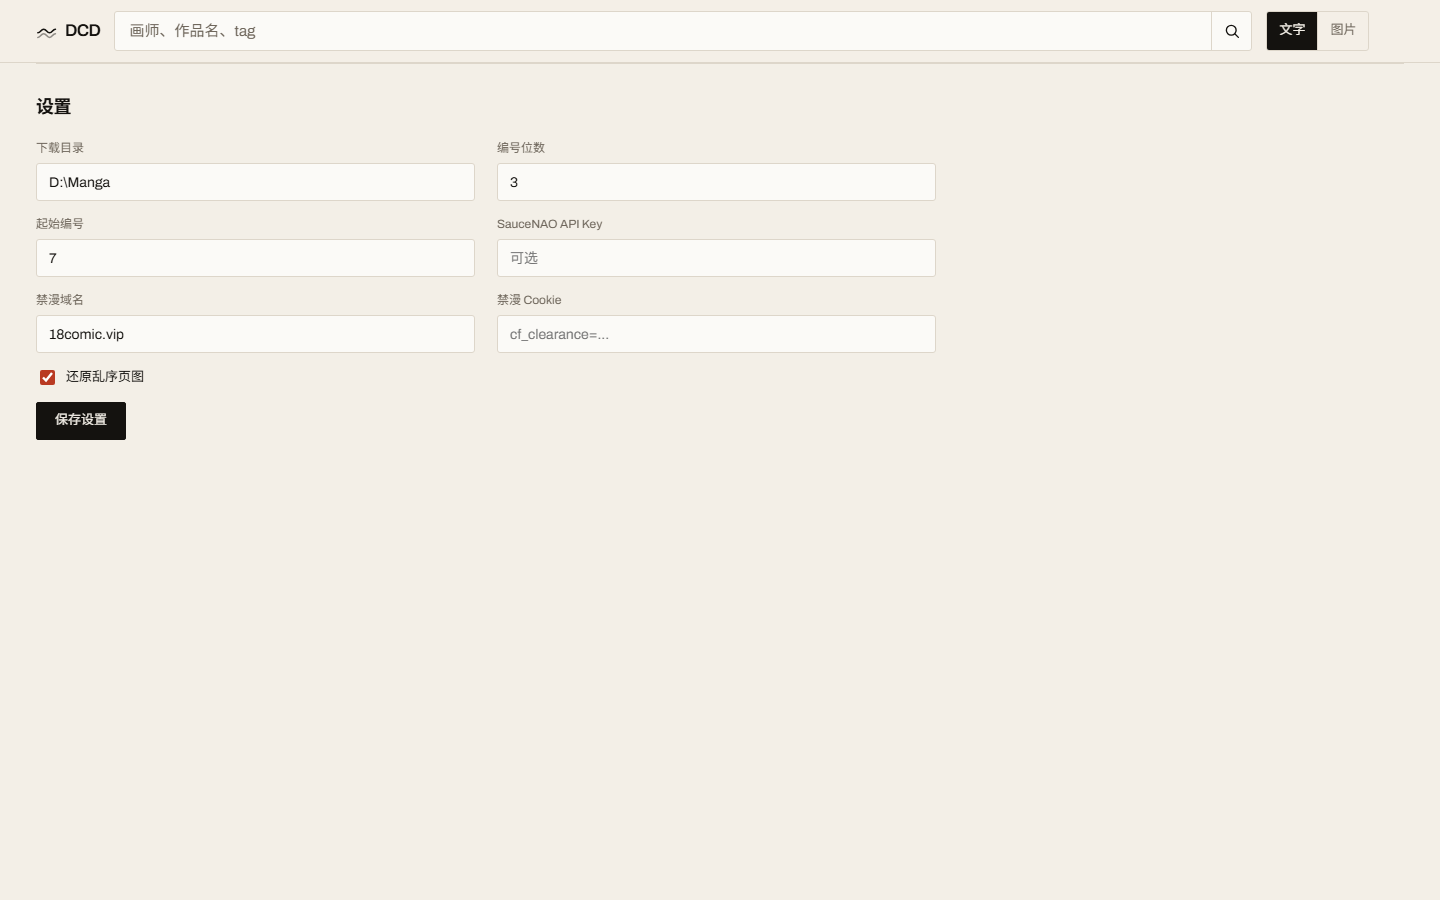
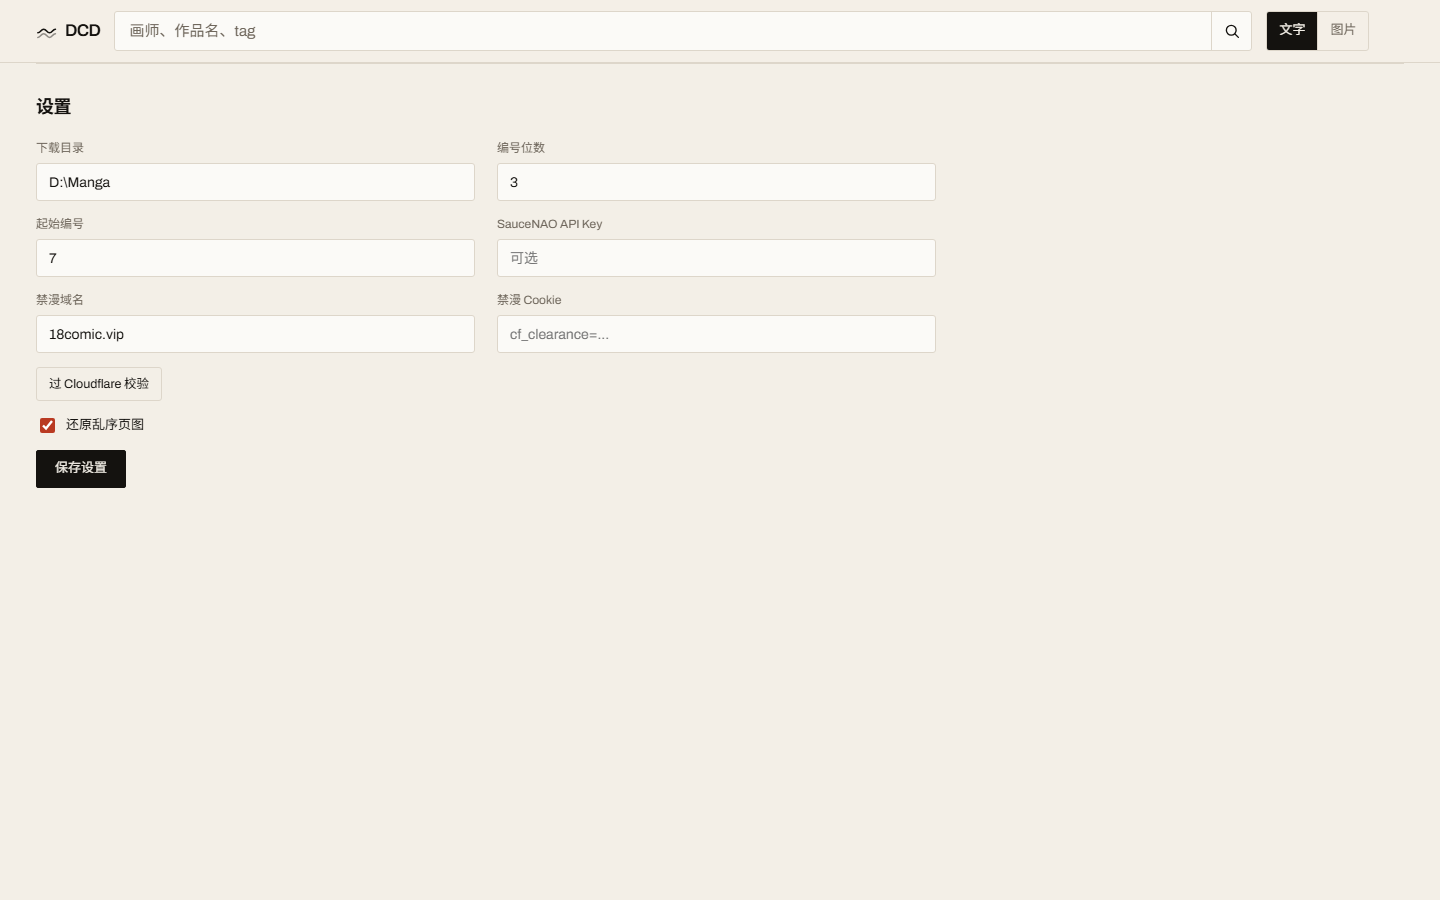
1.0.3: one-click Cloudflare clearance through runtime.webLogin

Changed region(s): [[0.0, 0.4044, 0.125, 0.56]]

diff --git a/ui/app.js b/ui/app.js
@@ -523,6 +523,37 @@
     });
   }
 
+  /* The host can open an isolated window, let the user pass the Cloudflare
+   * challenge, and hand back the cookies for the declared domain — with the
+   * same User-Agent the engine will use afterwards (cf_clearance is bound to
+   * UA + client IP, so the two must match). */
+  async function passChallenge() {
+    var status = $('jmStatus');
+    var domain = App.settings.jmDomain || '18comic.vip';
+    if (!window.NousPlugin) { status.textContent = '只有正式宿主能开校验窗口'; return; }
+    status.textContent = '已打开窗口，完成站点校验后会自动保存';
+    try {
+      var res = await window.NousPlugin.request('runtime.webLogin', {
+        url: 'https://' + domain + '/',
+        domains: [domain],
+        cookieUrls: ['https://' + domain + '/'],
+        requiredCookies: [['cf_clearance']],
+        userAgents: { 'windows-x64': E.UA },
+        urls: { 'windows-x64': 'https://' + domain + '/' }
+      }, { timeoutMs: 600000 });
+      var cookie = String((res && res.cookie) || '');
+      if (!cookie) throw new Error('E_AUTH: 没有取到 Cookie');
+      App.settings.jmCookie = cookie;
+      $('fields').jmCookie.value = cookie;
+      await saveSettings();
+      await Host.invoke('cookie.set', { host: domain, cookie: cookie }).catch(function () {});
+      await Host.invoke('cookie.set', { host: '.' + domain, cookie: cookie }).catch(function () {});
+      status.textContent = '已保存 ' + cookie.split(';').length + ' 项';
+    } catch (err) {
+      status.textContent = String(err && err.message ? err.message : err).slice(0, 80);
+    }
+  }
+
   async function runQueue() {
     $('start').disabled = true;
     var rows = App.queue.filter(function (r) { return r.state === 'queued' || r.state === 'failed'; });
@@ -672,6 +703,10 @@
     $('openroot').addEventListener('click', function () {
       if (App.settings.root) Host.invoke('system.openFolder', { path: App.settings.root }).catch(function () {});
     });
+    if ($('jmLogin')) {
+      if (window.NousPlugin) $('jmLogin').addEventListener('click', passChallenge);
+      else $('jmLogin').hidden = true;
+    }
     $('fields').addEventListener('submit', async function (e) {
       e.preventDefault();
       var form = e.target;

diff --git a/ui/style.css b/ui/style.css
@@ -463,6 +463,15 @@ button { font: inherit; color: inherit; cursor: pointer; }
   align-items: end;
 }
 .fields .check, .fields .save, .fields .saved { grid-column: 1 / -1; }
+.fields .inline { display: flex; align-items: center; gap: 10px; flex-wrap: wrap; }
+.ghost-btn {
+  height: 34px; padding: 0 12px; border: 1px solid var(--line); border-radius: var(--r);
+  background: none; font-size: 12.5px; color: var(--ink);
+  transition: transform .16s var(--ease), border-color .16s var(--ease);
+}
+.ghost-btn:hover { transform: translateY(-1px); border-color: var(--ink); }
+.jmstatus { font-size: 12px; color: var(--muted); }
+
 .fields .check { justify-self: start; }
 .fields label {
   display: grid; gap: 6px; font-size: 12px; color: var(--muted);
@@ -478,6 +487,15 @@ button { font: inherit; color: inherit; cursor: pointer; }
   outline: none; border-color: var(--ink);
   box-shadow: 0 0 0 3px color-mix(in srgb, var(--ink) 10%, transparent);
 }
+.fields .inline { display: flex; align-items: center; gap: 10px; flex-wrap: wrap; }
+.ghost-btn {
+  height: 34px; padding: 0 12px; border: 1px solid var(--line); border-radius: var(--r);
+  background: none; font-size: 12.5px; color: var(--ink);
+  transition: transform .16s var(--ease), border-color .16s var(--ease);
+}
+.ghost-btn:hover { transform: translateY(-1px); border-color: var(--ink); }
+.jmstatus { font-size: 12px; color: var(--muted); }
+
 .fields .check {
   display: flex; align-items: center; gap: 8px;
   font-size: 13px; color: var(--ink); cursor: pointer;

diff --git a/ui/index.html b/ui/index.html
@@ -83,6 +83,10 @@
     <label>SauceNAO API Key <input name="sauce" type="text" placeholder="可选" spellcheck="false"></label>
     <label>禁漫域名 <input name="jmDomain" type="text" placeholder="18comic.vip" spellcheck="false"></label>
     <label>禁漫 Cookie <input name="jmCookie" type="text" placeholder="cf_clearance=..." spellcheck="false"></label>
+    <div class="inline">
+      <button class="ghost-btn" type="button" id="jmLogin">过 Cloudflare 校验</button>
+      <span class="jmstatus" id="jmStatus" aria-live="polite"></span>
+    </div>
     <label class="check"><input name="jmDescramble" type="checkbox" checked> 还原乱序页图</label>
     <button class="save" type="submit">保存设置</button>
     <span class="saved" id="saved" aria-live="polite"></span>

diff --git a/ui/preview-dark.html b/ui/preview-dark.html
@@ -83,6 +83,10 @@
     <label>SauceNAO API Key <input name="sauce" type="text" placeholder="可选" spellcheck="false"></label>
     <label>禁漫域名 <input name="jmDomain" type="text" placeholder="18comic.vip" spellcheck="false"></label>
     <label>禁漫 Cookie <input name="jmCookie" type="text" placeholder="cf_clearance=..." spellcheck="false"></label>
+    <div class="inline">
+      <button class="ghost-btn" type="button" id="jmLogin">过 Cloudflare 校验</button>
+      <span class="jmstatus" id="jmStatus" aria-live="polite"></span>
+    </div>
     <label class="check"><input name="jmDescramble" type="checkbox" checked> 还原乱序页图</label>
     <button class="save" type="submit">保存设置</button>
     <span class="saved" id="saved" aria-live="polite"></span>

diff --git a/ui/preview-empty.html b/ui/preview-empty.html
@@ -83,6 +83,10 @@
     <label>SauceNAO API Key <input name="sauce" type="text" placeholder="可选" spellcheck="false"></label>
     <label>禁漫域名 <input name="jmDomain" type="text" placeholder="18comic.vip" spellcheck="false"></label>
     <label>禁漫 Cookie <input name="jmCookie" type="text" placeholder="cf_clearance=..." spellcheck="false"></label>
+    <div class="inline">
+      <button class="ghost-btn" type="button" id="jmLogin">过 Cloudflare 校验</button>
+      <span class="jmstatus" id="jmStatus" aria-live="polite"></span>
+    </div>
     <label class="check"><input name="jmDescramble" type="checkbox" checked> 还原乱序页图</label>
     <button class="save" type="submit">保存设置</button>
     <span class="saved" id="saved" aria-live="polite"></span>

diff --git a/ui/preview-grid.html b/ui/preview-grid.html
@@ -83,6 +83,10 @@
     <label>SauceNAO API Key <input name="sauce" type="text" placeholder="可选" spellcheck="false"></label>
     <label>禁漫域名 <input name="jmDomain" type="text" placeholder="18comic.vip" spellcheck="false"></label>
     <label>禁漫 Cookie <input name="jmCookie" type="text" placeholder="cf_clearance=..." spellcheck="false"></label>
+    <div class="inline">
+      <button class="ghost-btn" type="button" id="jmLogin">过 Cloudflare 校验</button>
+      <span class="jmstatus" id="jmStatus" aria-live="polite"></span>
+    </div>
     <label class="check"><input name="jmDescramble" type="checkbox" checked> 还原乱序页图</label>
     <button class="save" type="submit">保存设置</button>
     <span class="saved" id="saved" aria-live="polite"></span>

diff --git a/ui/preview-settings.html b/ui/preview-settings.html
@@ -83,6 +83,10 @@
     <label>SauceNAO API Key <input name="sauce" type="text" placeholder="可选" spellcheck="false"></label>
     <label>禁漫域名 <input name="jmDomain" type="text" placeholder="18comic.vip" spellcheck="false"></label>
     <label>禁漫 Cookie <input name="jmCookie" type="text" placeholder="cf_clearance=..." spellcheck="false"></label>
+    <div class="inline">
+      <button class="ghost-btn" type="button" id="jmLogin">过 Cloudflare 校验</button>
+      <span class="jmstatus" id="jmStatus" aria-live="polite"></span>
+    </div>
     <label class="check"><input name="jmDescramble" type="checkbox" checked> 还原乱序页图</label>
     <button class="save" type="submit">保存设置</button>
     <span class="saved" id="saved" aria-live="polite"></span>

diff --git a/ui/preview.html b/ui/preview.html
@@ -83,6 +83,10 @@
     <label>SauceNAO API Key <input name="sauce" type="text" placeholder="可选" spellcheck="false"></label>
     <label>禁漫域名 <input name="jmDomain" type="text" placeholder="18comic.vip" spellcheck="false"></label>
     <label>禁漫 Cookie <input name="jmCookie" type="text" placeholder="cf_clearance=..." spellcheck="false"></label>
+    <div class="inline">
+      <button class="ghost-btn" type="button" id="jmLogin">过 Cloudflare 校验</button>
+      <span class="jmstatus" id="jmStatus" aria-live="polite"></span>
+    </div>
     <label class="check"><input name="jmDescramble" type="checkbox" checked> 还原乱序页图</label>
     <button class="save" type="submit">保存设置</button>
     <span class="saved" id="saved" aria-live="polite"></span>

diff --git a/README.md b/README.md
@@ -60,7 +60,12 @@ D:\Manga\
 - 识别质询页并返回 `E_CHALLENGE`，不把空结果当成“没有命中”；
 - 把设置里的 Cookie 写进原生模块的 cookie 罐（按域保存），后续请求带上。
 
-做法：浏览器登录 18comic.vip 并通过人机校验 → 复制该域的 `cf_clearance`（连同 `__cf_bm` 等）填进设置。该站的解析按社区客户端的结构实现，**未在本机通过质询验证**，页面结构变化时会在结果里报 `E_PARSE`。
+两条路：
+
+1. **设置页按钮**（推荐）：`设置 → 过 Cloudflare 校验`。宿主会开一个隔离窗口打开 18comic 域名，你完成站点的人机校验后，窗口自动关闭，`cf_clearance` 等 Cookie 直接写进设置与原生模块的 cookie 罐。窗口使用的 User-Agent 与之后引擎请求用的完全一致（`cf_clearance` 同时绑定 UA 和出口 IP，两边不一致会被判为无效）。
+2. **手动复制**：浏览器打开站点并过校验 → DevTools → Application → Cookies → `https://18comic.vip` → 复制 `cf_clearance` 的值（连同 `__cf_bm` 更好）→ 粘进 `设置 → 禁漫 Cookie`，形如 `cf_clearance=xxx; __cf_bm=yyy`。手动的代价是要自己保证浏览器 UA 与插件默认 UA（桌面 Chrome 131）一致、且与插件走同一出口 IP。
+
+Cookie 会过期（Cloudflare 通常几十分钟），过期后检索会重新报 `E_CHALLENGE`，再过一次校验即可。该站的解析按社区客户端的结构实现，**未在本机通过质询验证**，页面结构变化时会在结果里报 `E_PARSE`。
 
 ## 开发
 
